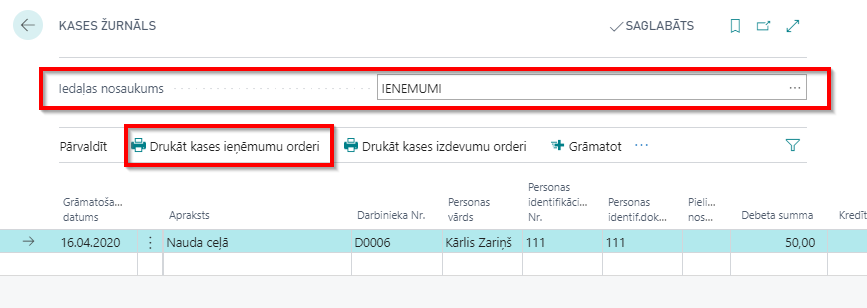
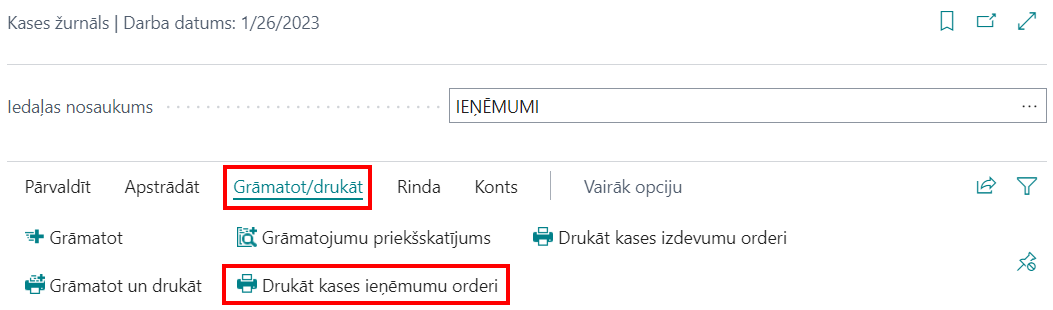
Automated Release lv-LV

diff --git a/lv-LV/articles/cash_management/cash_management.html b/lv-LV/articles/cash_management/cash_management.html
@@ -8,7 +8,7 @@
     <title>S&#257;kam lietot | Latvian Localization </title>
     <meta name="viewport" content="width=device-width">
     <meta name="title" content="S&#257;kam lietot | Latvian Localization ">
-    <meta name="generator" content="docfx 2.58.9.0">
+    <meta name="generator" content="docfx 2.59.0.0">
     
     <link rel="shortcut icon" href="../../favicon.ico">
     <link rel="stylesheet" href="../../styles/docfx.vendor.css">
@@ -294,47 +294,32 @@ Aizpildiet žurnālu:</p>
 <li>Korespond. konta Nr. - kases konta numurs, aizpildās automātiski, ja piesaistīts iedaļai.</li>
 </ul>
 <h2 id="kā-lietot-kases-izdevumu-ordera-sagatavošana">Kā lietot: Kases izdevumu ordera sagatavošana</h2>
-<p>Latvian Cash Management Localization sniedz iespēju sagatavot Kases izdevumu orderi Dynamics 365 Business Central un sagatavotu izdrukas, lai izpildītu Latvijā noteiktās normatīvo aktu prasības.</p>
-<p><strong>Mērķis</strong>: Maiņas naudas izdevumu orderi ir jāreģistrē sistēmā un jānodrošina iespēja tos izdrukāt katram darījumam atsevišķi.</p>
-<p><strong>Pieejami izdrukai no</strong>: atskaites var izdrukāt Kases žurnāla rīkjoslā - Drukāt kases izdevumu orderi.</p>
+<p>Latvian Cash Management Localization sniedz iespēju sagatavot Kases izdevumu orderi Dynamics 365 Business Central un sagatavot izdrukas, lai izpildītu Latvijā noteiktās normatīvo aktu prasības.</p>
+<p><strong>Mērķis</strong>: Kases izdevumu orderi ir jāreģistrē sistēmā un jānodrošina iespēja tos izdrukāt katram darījumam atsevišķi.</p>
+<p><strong>Pieejami izdrukai no</strong>: Atskaites var izdrukāt Kases žurnāla rīkjoslā: <em>Grāmatot/Drukāt</em> - <em>Drukāt kases izdevumu orderi</em>.</p>
 <p><img src="images/cash_payment001.png" alt="alt"></p>
-<p>Kases izdevumu orderi iegrāmatotam darījumam var izdrukāt arī izmantojot atskaiti Kases izdevumu orderis. Šajā gadījumā drukas iestatījumos jāizmanto filtrs Bankas kontu grāmatas ieraksti.</p>
-<p><img src="images/cash_payment002.png" alt="alt"></p>
-<p><strong>Priekšnosacījumi</strong>: Bankas konta kartiņā ir jābūt norādītam Kasierim un grāmatvedim. Bankas konta kartiņā ir jābūt izvēlēta atbilstoša Bankas kontējumu grupa, norādīts Personas identifikācijas Nr., kā arī, Personas identif.dok.inform. Šie lauki ir jāaizpilda obligāti.
-Kases žurnāla sadaļā IZDEVUMI ir jābūt izveidotām rindiņām:</p>
-<ul>
-<li>Dokumenta tips: Maksājums</li>
-<li>Summa: Pozitīva</li>
-</ul>
+<p><strong>Priekšnosacījumi</strong>: Bankas konta kartiņā ir jābūt norādītam Kasierim un kases žurnāla rindai jābūt aizpildītai kā aprakstīts palīdzības sadaļā <a href="https://elva-d365-bc.github.io/localization/lv-LV/articles/cash_management/cash_management.html#k%C4%81-lietot-kases-%C5%BEurn%C4%81ls">Kā lietot: Kases žurnāls</a>.</p>
 <p><img src="images/cash_payment003.png" alt="alt"></p>
-<p><strong>Drukas iestatījumi</strong>: ir pieejami šādi drukas iestatījumi:</p>
-<ul>
-<li>Drukāt saņemšanas informāciju vārdiem – ja aktivizēts, summa vārdiem dokumenta izdrukā tiek iekļauta blakus laukam Saņemts.</li>
-<li>Atskaites sagatavošanai var arī piemērot V/G žurnāla rindu filtru.</li>
-</ul>
-<p>Kad drukas iestatījumi ir veikti, ir iespējams izvēlēties nepieciešamo darbību starp Sūtīt (kam), Drukāt, Priekšskatījums un Atcelt.</p>
+<p>Lai izdrukātu kases izdevumu orderi, spiediet <em>Grāmatot/drukāt</em> - <em>Drukāt Kases izdevumu orderi</em> un izvēlēties nepieciešamo darbību starp Sūtīt (kam), Drukāt, Priekšskatīt un Aizvērt, vai Atcelt.</p>
 <p><img src="images/cash_payment004.png" alt="alt"></p>
 <p><img src="images/cash_payment005.png" alt="alt"></p>
+<p>Kases izdevumu orderi iegrāmatotam darījumam var izdrukāt arī izmantojot atskaiti Kases izdevumu orderis.</p>
+<p><img src="images/cash_payment002.png" alt="alt"></p>
+<p>Veidojot šo atskaiti, ir obligāti jānorāda <em>Ieraksta Nr.</em> vai <em>Dokumenta Nr.</em> Pēc tam izvēlēties nepieciešamo darbību starp Sūtīt (kam), Drukāt, Priekšskatīt un Aizvērt, vai Atcelt.</p>
 <h2 id="kā-lietot-kases-ieņēmumu-ordera-sagatavošana">Kā lietot: Kases ieņēmumu ordera sagatavošana</h2>
 <p>Latvian Cash Management Localization dod iespēju sagatavot Kases ieņēmumu orderi Dynamics 365 Business Central un izdrukāt to, lai nodrošinātu Latvijā noteiktās normatīvo aktu prasības.</p>
-<p><strong>Mērķis</strong>: Maiņas naudas ieņēmumu orderi ir jāreģistrē sistēmā un jānodrošina iespēja tos izdrukāt katram darījumam atsevišķi.</p>
-<p><strong>Iespējams izdrukāt no</strong>: Kases žurnāla rīkjoslas opcija Drukāt kases ieņēmumu orderi.</p>
+<p><strong>Mērķis</strong>: Kases ieņēmumu orderi ir jāreģistrē sistēmā un jānodrošina iespēja tos izdrukāt katram darījumam atsevišķi.</p>
+<p><strong>Pieejami izdrukai no</strong>: Atskaites var izdrukāt Kases žurnāla rīkjoslā: <em>Grāmatot/Drukāt</em> - <em>Drukāt kases ieņēmumu orderi</em>.</p>
 <p><img src="images/cash_payment006.png" alt="alt"></p>
-<p>Kases ieņēmumu orderi iegrāmatotam darījumam var izdrukāt arī izmantojot atskaiti Kases ieņēmumu orderis.</p>
-<p><strong>Priekšnosacījumi</strong>: Kasierim un grāmatvedim ir jābūt norādītam Bankas konta kartiņā. Bankas konta kartiņā jābūt izvēlēta atbilstoša Bankas kontējumu grupa, norādīts Personas identifikācijas Nr., kā arī, Personas identif.dok.inform. Šie lauki ir jāaizpilda obligāti.
-Kases žurnāla sadaļā IENEMUMI ir jābūt izveidotām rindiņām:</p>
-<ul>
-<li>Dokumenta tips: Maksājums</li>
-<li>Summa: Negatīva</li>
-</ul>
+<p><strong>Priekšnosacījumi</strong>: Bankas konta kartiņā ir jābūt norādītam Kasierim un kases žurnāla rindai jābūt aizpildītai kā aprakstīts palīdzības sadaļā <a href="https://elva-d365-bc.github.io/localization/lv-LV/articles/cash_management/cash_management.html#k%C4%81-lietot-kases-%C5%BEurn%C4%81ls">Kā lietot: Kases žurnāls</a>.</p>
 <p><img src="images/cash_income003.png" alt="alt"></p>
-<p><strong>Drukas iestatījumi</strong>: Drukas iestatījumos var tikt piemērots V/G žurnāla rindu filtrs.</p>
+<p>Lai izdrukātu Kases ieņēmumu orderi, spiediet <em>Grāmatot/drukāt</em> - <em>Drukāt Kases ieņēmumu orderi</em> un izvēlēties nepieciešamo darbību starp Sūtīt (kam), Drukāt, Priekšskatīt un Aizvērt, vai Atcelt.</p>
 <p><img src="images/cash_income004.png" alt="alt"></p>
-<p>Kad drukas iestatījumi ir veikti, ir iespējams izvēlēties nepieciešamo darbību starp Sūtīt (kam), Drukāt, Priekšskatījums un Atcelt.</p>
 <p><img src="images/cash_income005.png" alt="alt"></p>
+<p>Kases ieņēmumu orderi iegrāmatotam darījumam var izdrukāt arī izmantojot atskaiti Kases ieņēmumu orderis. Pēc tam izvēlēties nepieciešamo darbību starp Sūtīt (kam), Drukāt, Priekšskatīt un Aizvērt, vai Atcelt.</p>
 <h2 id="kā-lietot-kases-grāmatas-izdruka">Kā lietot: Kases grāmatas izdruka</h2>
-<p>Latvian Cash Management Localization dod iespēju reģistrēt Kases ieņēmumu un izdevumu orderus Dynamics 365 Business Central un pārskata perioda beigās uzrādīt visas veiktos maiņas naudas darījumus vienā atskaitē - Kases grāmatā, izpildot Latvijā noteiktās normatīvo aktu prasības.</p>
-<p><strong>Mērķis</strong>: Kases grāmatas satur visus maiņas naudas darījumus atlasītajā periodā.</p>
+<p>Latvian Cash Management Localization dod iespēju reģistrēt Kases ieņēmumu un izdevumu orderus Dynamics 365 Business Central un pārskata perioda beigās uzrādīt visus veiktos skaidras naudas darījumus vienā atskaitē - Kases grāmatā, izpildot Latvijā noteiktās normatīvo aktu prasības.</p>
+<p><strong>Mērķis</strong>: Kases grāmatas satur visus skaidras naudas darījumus atlasītajā periodā, izvelētajam bankas kontam ar tipu kase.</p>
 <p><strong>Iespējams izdrukāt no</strong> Meklēt Lapu vai atskaiti logā ieraksta Kases grāmata.</p>
 <p><img src="images/cash_search.png" alt="alt"></p>
 <p><img src="images/cash_book001.png" alt="alt"></p>
@@ -345,7 +330,7 @@ Kases žurnāla sadaļā IENEMUMI ir jābūt izveidotām rindiņām:</p>
 <li>Nr. - izvēlieties bankas kontu, kura tips ir kase;</li>
 <li>Datuma filtrs - ievadiet pārskata periodu, par kuru nepieciešams izdrukāt kases grāmatu.</li>
 </ul>
-<p>Kad drukas iestatījumi ir veikti, ir iespējams izvēlēties nepieciešamo darbību starp Sūtīt (kam), Drukāt, Priekšskatījums un Atcelt.</p>
+<p>Kad drukas iestatījumi ir veikti, ir iespējams izvēlēties nepieciešamo darbību starp Sūtīt (kam), Drukāt, Priekšskatīt un Aizvērt, vai Atcelt.</p>
 <p><img src="images/cash_book002.png" alt="alt"></p>
 </article>
           </div>

diff --git a/lv-LV/articles/vat/promo.html b/lv-LV/articles/vat/promo.html
@@ -8,7 +8,7 @@
     <title>Vai J&#363;su gr&#257;matvedim ir jau apnicis manu&#257;li sagatavot PVN deklar&#257;cijas un to pielikumus iesnieg&#353;anai Valsts ie&#326;&#275;mumu dienest&#257;, p&#257;rrakstot datus no gr&#257;matved&#299;bas sist&#275;mas uz Elektronisko deklar&#275;&#353;anas sist&#275;mu? | Latvian Localization </title>
     <meta name="viewport" content="width=device-width">
     <meta name="title" content="Vai J&#363;su gr&#257;matvedim ir jau apnicis manu&#257;li sagatavot PVN deklar&#257;cijas un to pielikumus iesnieg&#353;anai Valsts ie&#326;&#275;mumu dienest&#257;, p&#257;rrakstot datus no gr&#257;matved&#299;bas sist&#275;mas uz Elektronisko deklar&#275;&#353;anas sist&#275;mu? | Latvian Localization ">
-    <meta name="generator" content="docfx 2.58.9.0">
+    <meta name="generator" content="docfx 2.59.0.0">
     
     <link rel="shortcut icon" href="../../favicon.ico">
     <link rel="stylesheet" href="../../styles/docfx.vendor.css">

diff --git a/lv-LV/readme.html b/lv-LV/readme.html
@@ -8,7 +8,7 @@
     <title>Latvian Localization Help pages for Microsoft Dynamics 365 Business Central | Latvian Localization </title>
     <meta name="viewport" content="width=device-width">
     <meta name="title" content="Latvian Localization Help pages for Microsoft Dynamics 365 Business Central | Latvian Localization ">
-    <meta name="generator" content="docfx 2.58.9.0">
+    <meta name="generator" content="docfx 2.59.0.0">
     
     <link rel="shortcut icon" href="favicon.ico">
     <link rel="stylesheet" href="styles/docfx.vendor.css">

diff --git a/lv-LV/articles/latvian_language/promo.html b/lv-LV/articles/latvian_language/promo.html
@@ -8,7 +8,7 @@
     <title>Latvian language (Latvia) aplik&#257;cija: | Latvian Localization </title>
     <meta name="viewport" content="width=device-width">
     <meta name="title" content="Latvian language (Latvia) aplik&#257;cija: | Latvian Localization ">
-    <meta name="generator" content="docfx 2.58.9.0">
+    <meta name="generator" content="docfx 2.59.0.0">
     
     <link rel="shortcut icon" href="../../favicon.ico">
     <link rel="stylesheet" href="../../styles/docfx.vendor.css">

diff --git a/lv-LV/articles/base_and_invoices/faq.html b/lv-LV/articles/base_and_invoices/faq.html
@@ -8,7 +8,7 @@
     <title>Bie&#382;&#257;k uzdotie jaut&#257;jumi | Latvian Localization </title>
     <meta name="viewport" content="width=device-width">
     <meta name="title" content="Bie&#382;&#257;k uzdotie jaut&#257;jumi | Latvian Localization ">
-    <meta name="generator" content="docfx 2.58.9.0">
+    <meta name="generator" content="docfx 2.59.0.0">
     
     <link rel="shortcut icon" href="../../favicon.ico">
     <link rel="stylesheet" href="../../styles/docfx.vendor.css">

diff --git a/lv-LV/articles/cash_management/faq.html b/lv-LV/articles/cash_management/faq.html
@@ -8,7 +8,7 @@
     <title>Bie&#382;&#257;k uzdotie jaut&#257;jumi | Latvian Localization </title>
     <meta name="viewport" content="width=device-width">
     <meta name="title" content="Bie&#382;&#257;k uzdotie jaut&#257;jumi | Latvian Localization ">
-    <meta name="generator" content="docfx 2.58.9.0">
+    <meta name="generator" content="docfx 2.59.0.0">
     
     <link rel="shortcut icon" href="../../favicon.ico">
     <link rel="stylesheet" href="../../styles/docfx.vendor.css">

diff --git a/lv-LV/articles/intrastat/faq.html b/lv-LV/articles/intrastat/faq.html
@@ -8,7 +8,7 @@
     <title>Bie&#382;&#257;k uzdotie jaut&#257;jumi | Latvian Localization </title>
     <meta name="viewport" content="width=device-width">
     <meta name="title" content="Bie&#382;&#257;k uzdotie jaut&#257;jumi | Latvian Localization ">
-    <meta name="generator" content="docfx 2.58.9.0">
+    <meta name="generator" content="docfx 2.59.0.0">
     
     <link rel="shortcut icon" href="../../favicon.ico">
     <link rel="stylesheet" href="../../styles/docfx.vendor.css">

diff --git a/lv-LV/articles/latvian_language/faq.html b/lv-LV/articles/latvian_language/faq.html
@@ -8,7 +8,7 @@
     <title>Bie&#382;&#257;k uzdotie jaut&#257;jumi | Latvian Localization </title>
     <meta name="viewport" content="width=device-width">
     <meta name="title" content="Bie&#382;&#257;k uzdotie jaut&#257;jumi | Latvian Localization ">
-    <meta name="generator" content="docfx 2.58.9.0">
+    <meta name="generator" content="docfx 2.59.0.0">
     
     <link rel="shortcut icon" href="../../favicon.ico">
     <link rel="stylesheet" href="../../styles/docfx.vendor.css">

diff --git a/lv-LV/articles/latvian_language/usage_scenarios.html b/lv-LV/articles/latvian_language/usage_scenarios.html
@@ -8,7 +8,7 @@
     <title>Galvenie lieto&#353;anas scen&#257;riji | Latvian Localization </title>
     <meta name="viewport" content="width=device-width">
     <meta name="title" content="Galvenie lieto&#353;anas scen&#257;riji | Latvian Localization ">
-    <meta name="generator" content="docfx 2.58.9.0">
+    <meta name="generator" content="docfx 2.59.0.0">
     
     <link rel="shortcut icon" href="../../favicon.ico">
     <link rel="stylesheet" href="../../styles/docfx.vendor.css">

diff --git a/lv-LV/articles/vat/faq.html b/lv-LV/articles/vat/faq.html
@@ -8,7 +8,7 @@
     <title>Bie&#382;&#257;k uzdotie jaut&#257;jumi | Latvian Localization </title>
     <meta name="viewport" content="width=device-width">
     <meta name="title" content="Bie&#382;&#257;k uzdotie jaut&#257;jumi | Latvian Localization ">
-    <meta name="generator" content="docfx 2.58.9.0">
+    <meta name="generator" content="docfx 2.59.0.0">
     
     <link rel="shortcut icon" href="../../favicon.ico">
     <link rel="stylesheet" href="../../styles/docfx.vendor.css">

diff --git a/lv-LV/index.html b/lv-LV/index.html
@@ -8,7 +8,7 @@
     <title>Latvian localization contains following apps: | Latvian Localization </title>
     <meta name="viewport" content="width=device-width">
     <meta name="title" content="Latvian localization contains following apps: | Latvian Localization ">
-    <meta name="generator" content="docfx 2.58.9.0">
+    <meta name="generator" content="docfx 2.59.0.0">
     
     <link rel="shortcut icon" href="favicon.ico">
     <link rel="stylesheet" href="styles/docfx.vendor.css">

diff --git a/lv-LV/articles/base_and_invoices/overview.html b/lv-LV/articles/base_and_invoices/overview.html
@@ -8,7 +8,7 @@
     <title>Pamatfunkcijas un r&#275;&#311;ini | Latvian Localization </title>
     <meta name="viewport" content="width=device-width">
     <meta name="title" content="Pamatfunkcijas un r&#275;&#311;ini | Latvian Localization ">
-    <meta name="generator" content="docfx 2.58.9.0">
+    <meta name="generator" content="docfx 2.59.0.0">
     
     <link rel="shortcut icon" href="../../favicon.ico">
     <link rel="stylesheet" href="../../styles/docfx.vendor.css">
